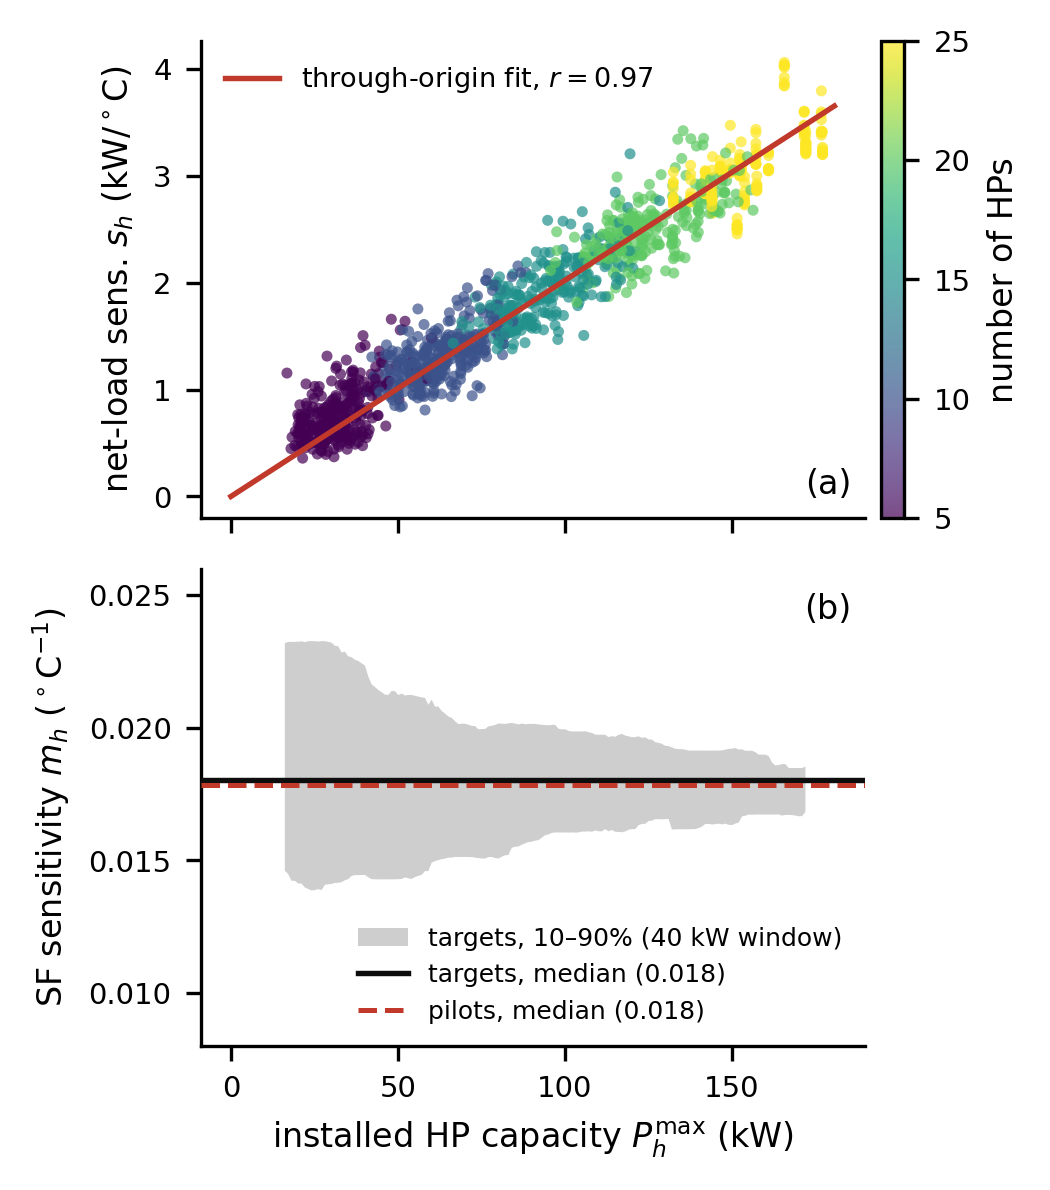
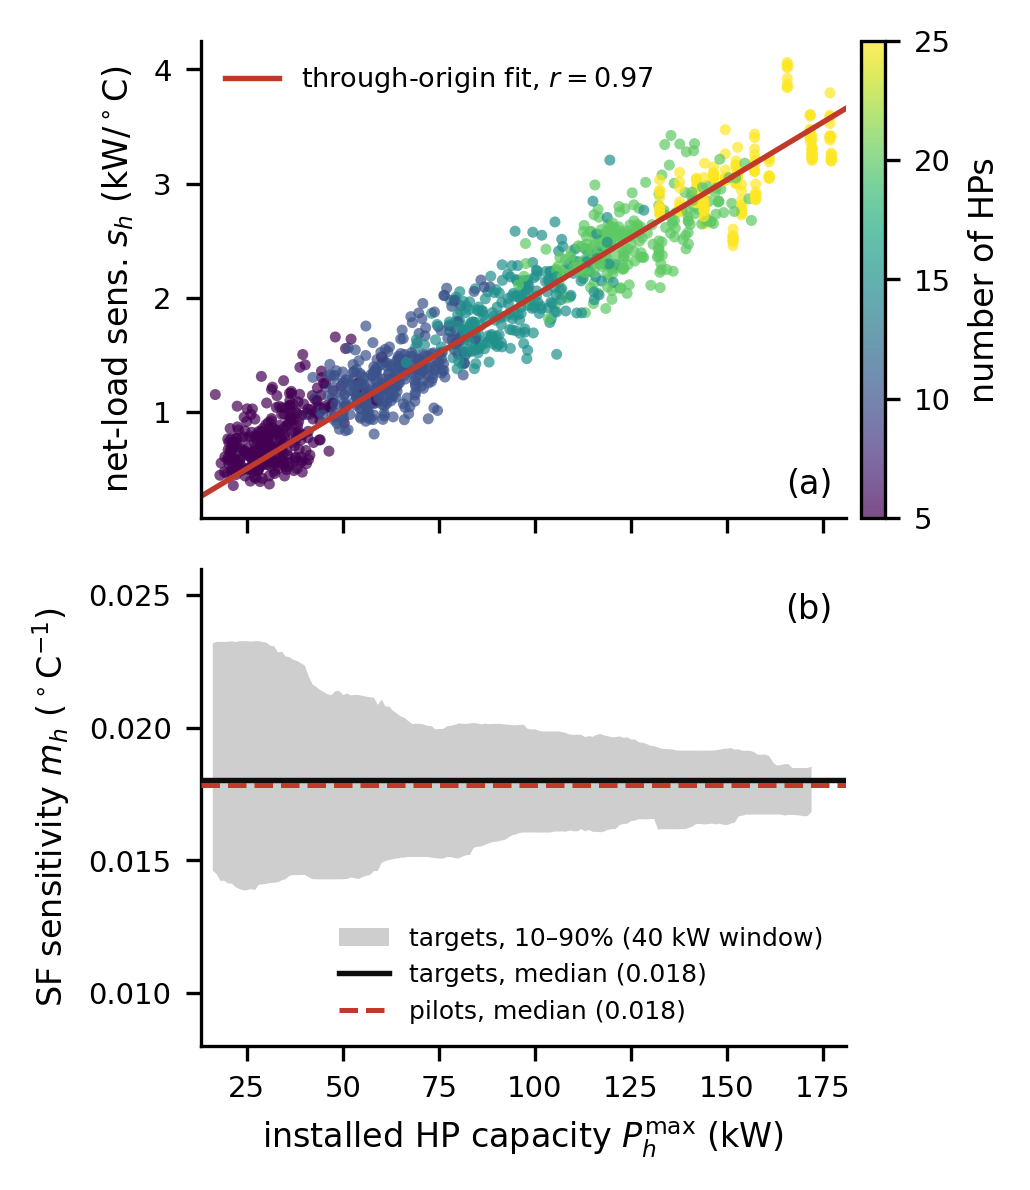
Fig. 6: x-axis covers only the installed capacities of the aggregates

diff --git a/scripts/outputs.py b/scripts/outputs.py
@@ -774,7 +774,8 @@ def fig_slope_capacity(window=40, min_n=100):
     hf.use_style()
     fig, (a, b) = plt.subplots(2, 1, figsize=(hf.COL1, 4.0), sharex=True)
     sc = a.scatter(x, y, c=G.N_hp, s=7, cmap='viridis', alpha=.7, edgecolor='none')
-    xl = np.array([0, x.max() * 1.02])
+    xl = np.array([np.floor(x.min()) - 3, np.ceil(x.max()) + 3])     # only the capacities the aggregates span
+    a.set_xlim(*xl)
     a.plot(xl, slope0 * xl, color=hf.C_HP, lw=1.3, label=f'through-origin fit, $r={r:.2f}$')
     a.set(ylabel='net-load sens. $s_h$ (kW/$^\\circ$C)')
     a.legend(fontsize=6.5, loc='upper left')

diff --git a/REVISION_LOG.md b/REVISION_LOG.md
@@ -519,3 +519,4 @@ Raised on 9 Nov and parked while the error metric and ranges change. Not done ye
 - **VI-A ¶1:** "With each aggregate's own SF sensitivity, the nMAE is 7.1%, against 9.5% with the pilot's." (no table reference).
 - Few24 and 0.425 stay in Sec. I and IV-C (15-min peak SF against the planning value). `outputs.tab_baselines` is left in the scripts.
 - **Table V → Fig. 6(b):** Table V (SF fits at N = 50 by N_hp) is removed. Fig. 6 gains panel (b): each aggregate's own m_h against installed capacity, as the 10–90% range over a 40 kW rolling window (evaluated every kW with ≥ 100 aggregates), the median of all 1260 aggregates (0.0180) and the median of the 20 pilots (0.0178). Colour bar label "number of HPs". IV-C now cites Fig. 6(b): m_h holds near 0.018 at every capacity (Spearman −0.06), maximum heating SF near 0.47 (was 0.48 at N = 50); the 10–90% width of m_h at five HPs is 0.0092 over all aggregates (was 0.0084 at N = 50), 0.0023 at twenty-five unchanged. R²_h and b_h by N_hp are no longer reported.
+- **Fig. 6 x-axis:** limited to the capacities the aggregates span (about 15–181 kW) instead of starting at 0; the through-origin line in (a) is drawn over that range only.
